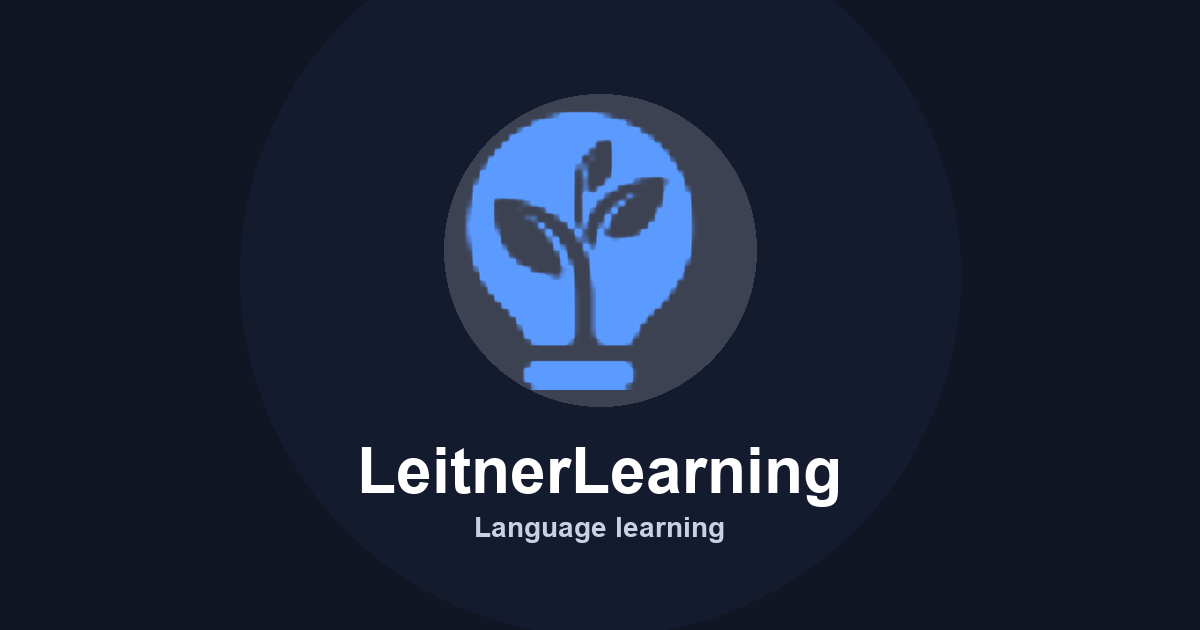
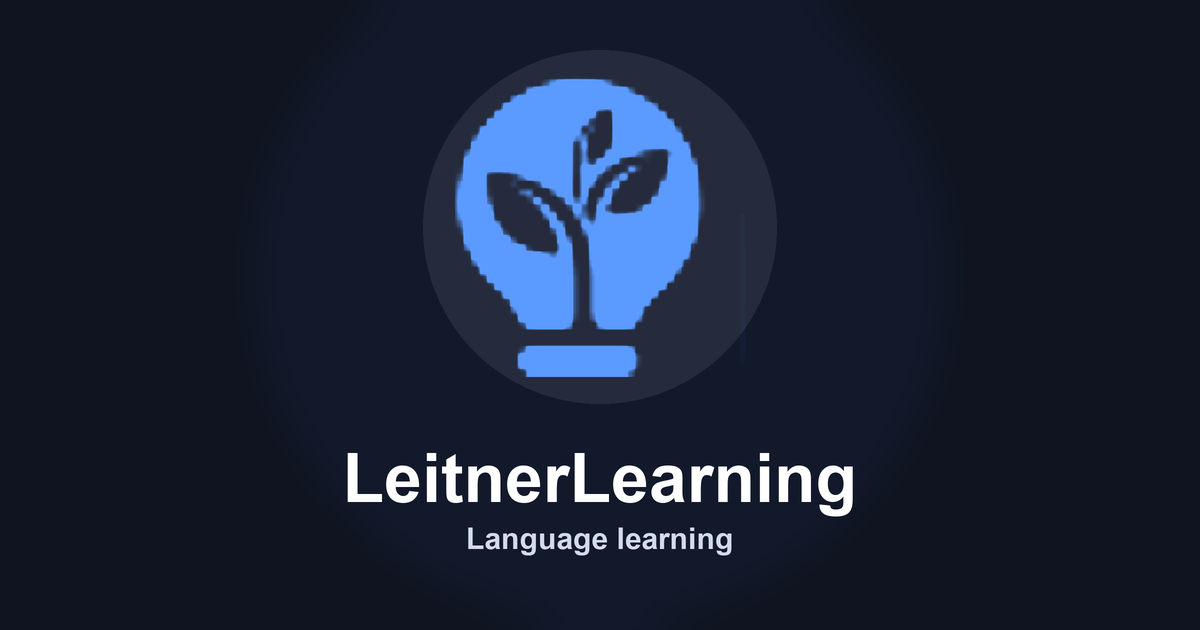
Sharpen OG share image for Facebook preview quality.
Render at 2× and downscale with Lanczos, softer mark edges, and
higher-quality PNG so link previews stop looking pixelated after scrape.

Changed region(s): [[0.37, 0.1206, 0.5858, 0.6635], [0.2775, 0.6937, 0.7092, 0.8746]]

diff --git a/index.html b/index.html
@@ -34,11 +34,11 @@
     <meta property="og:locale" content="en_US" />
     <meta
       property="og:image"
-      content="https://leitnerlearning.com/brand/og-share.png?v=15"
+      content="https://leitnerlearning.com/brand/og-share.png?v=16"
     />
     <meta
       property="og:image:secure_url"
-      content="https://leitnerlearning.com/brand/og-share.png?v=15"
+      content="https://leitnerlearning.com/brand/og-share.png?v=16"
     />
     <meta property="og:image:type" content="image/png" />
     <meta property="og:image:width" content="1200" />
@@ -55,7 +55,7 @@
     />
     <meta
       name="twitter:image"
-      content="https://leitnerlearning.com/brand/og-share.png?v=15"
+      content="https://leitnerlearning.com/brand/og-share.png?v=16"
     />
     <!-- Bookmarks, tabs, SERP favicon, home screen — PNGs regenerated sharp from mark -->
     <link rel="icon" href="brand/favicon.ico?v=15" sizes="any" />
